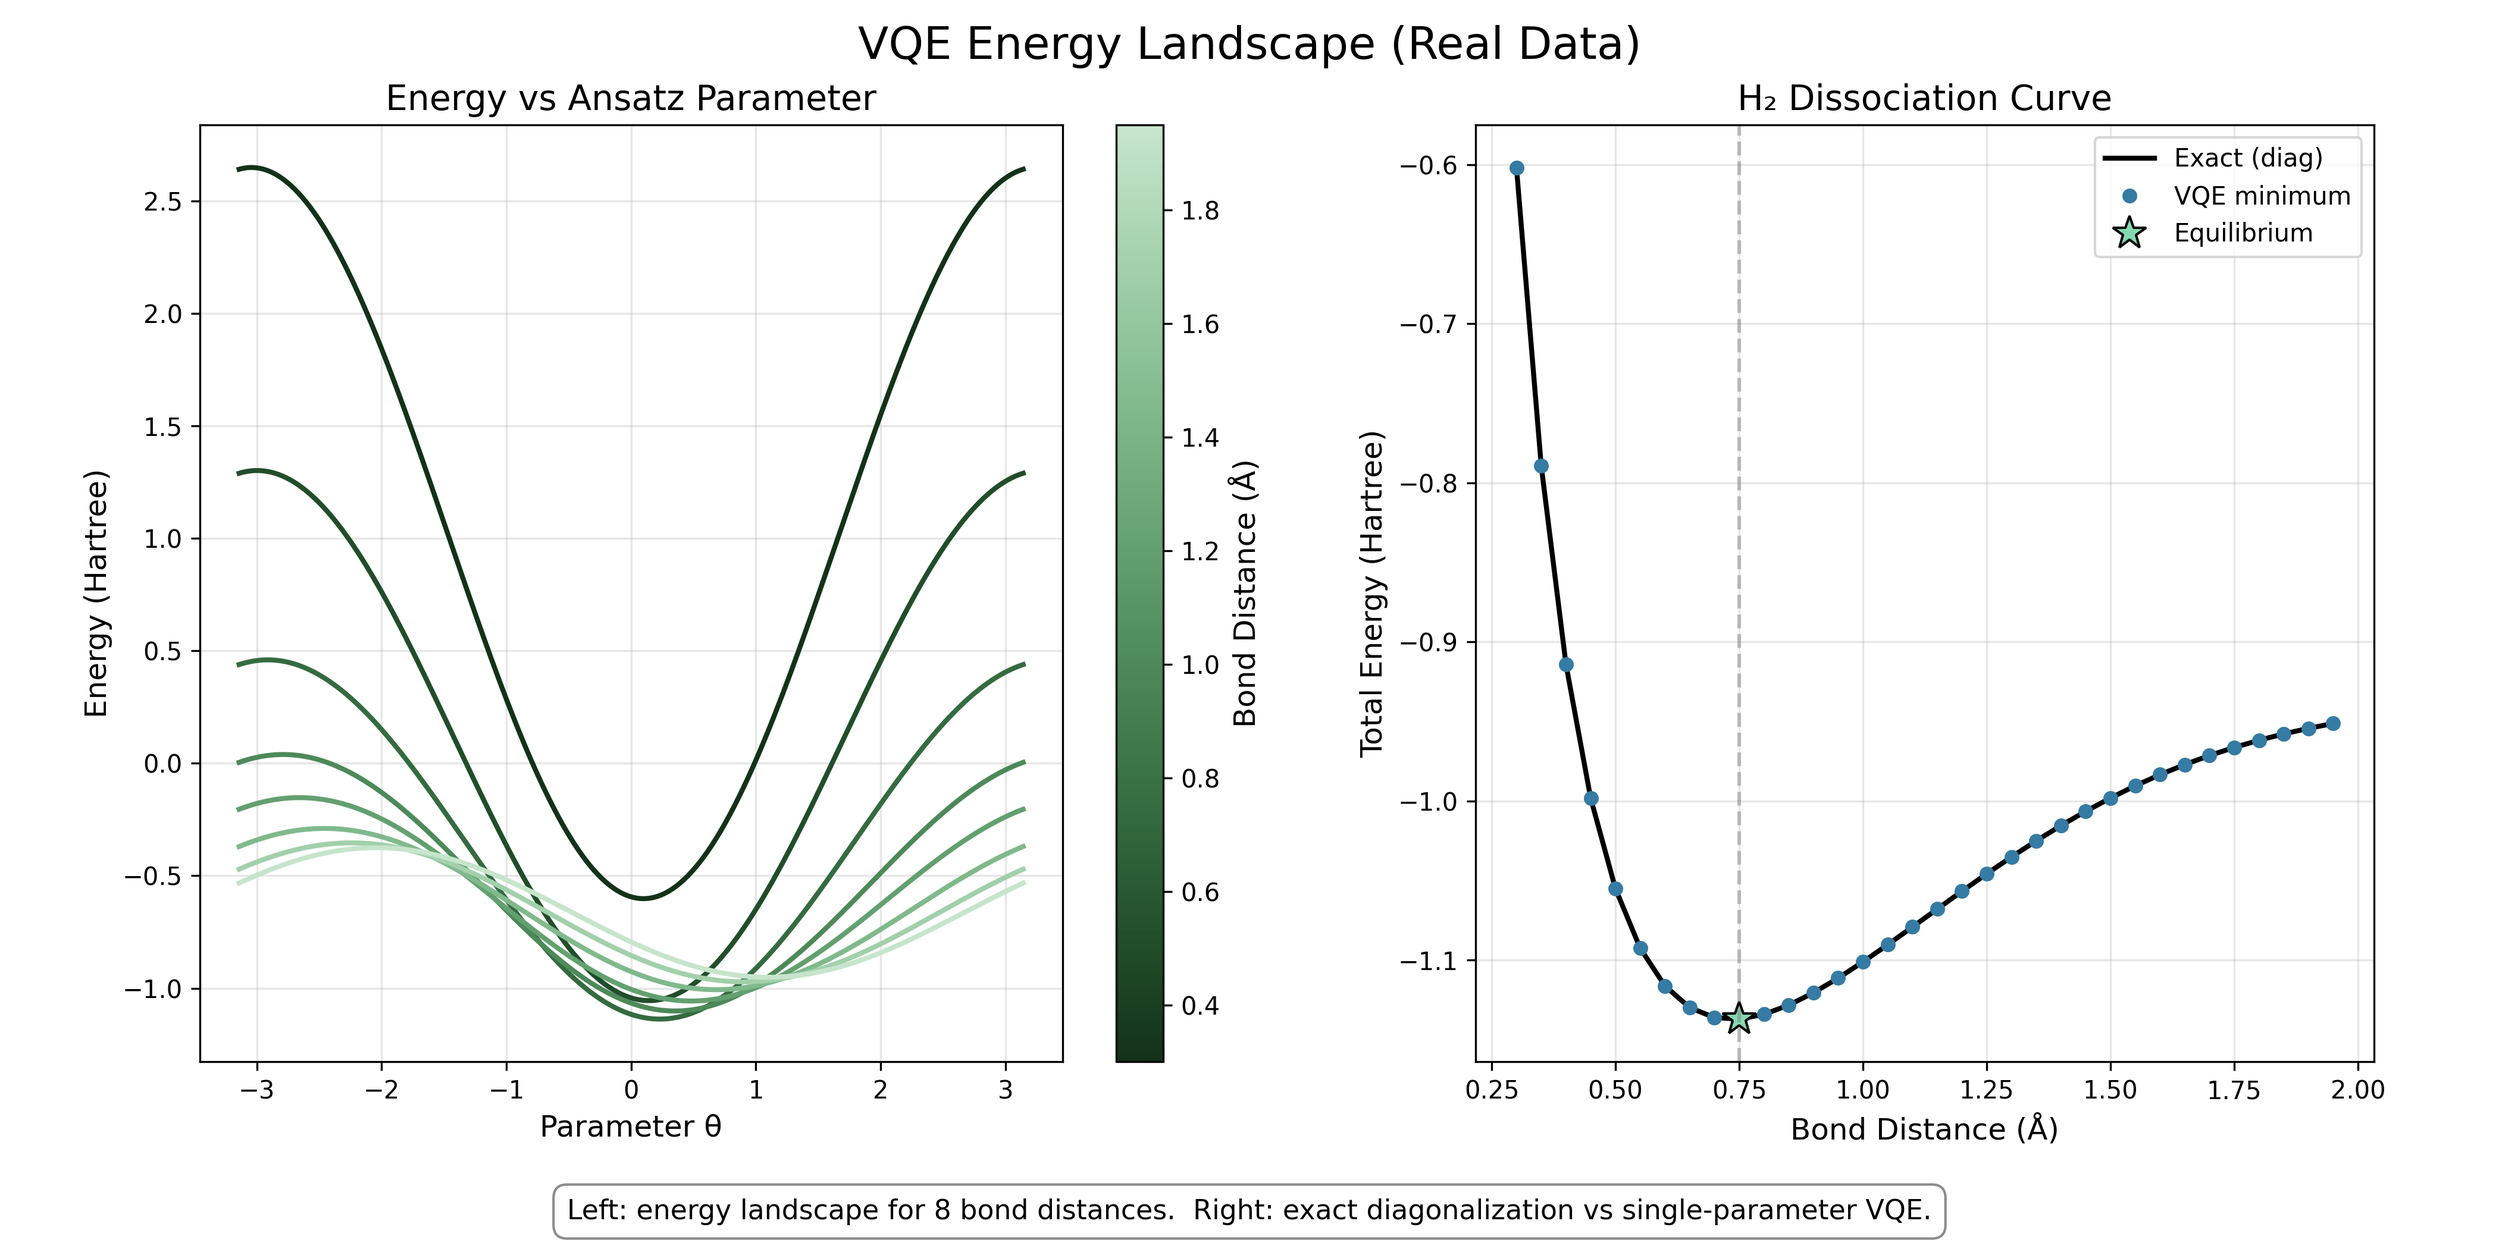
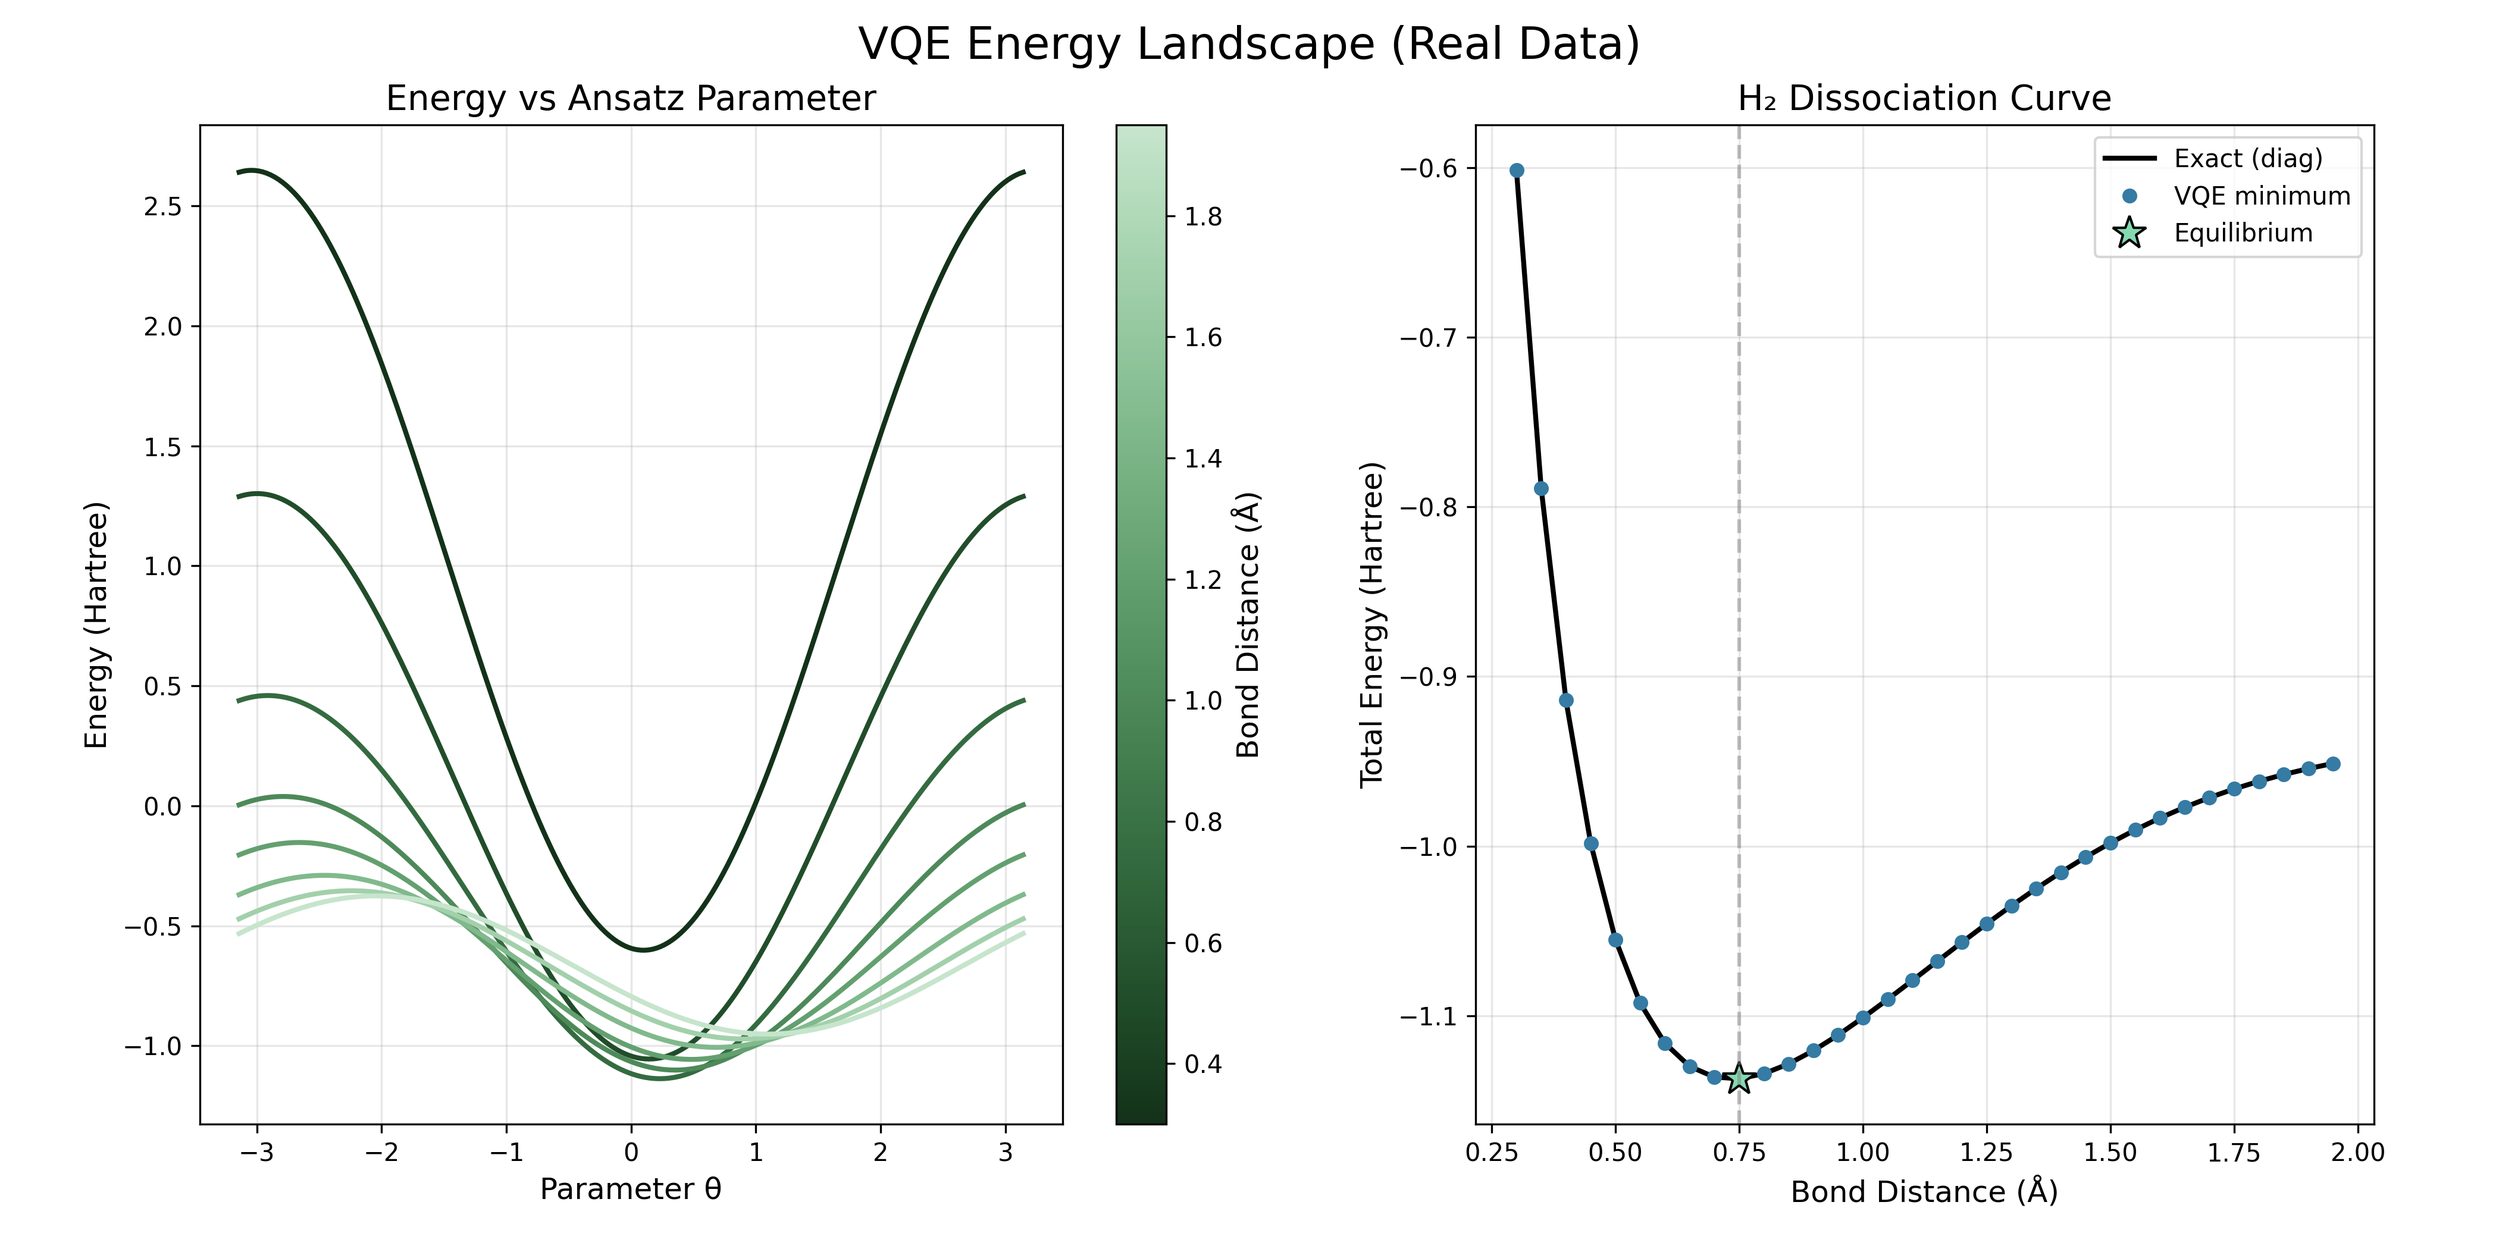
README overhaul: restructure for portfolio, strip figure descriptors, add SE signals

diff --git a/visualization/vqe_energy_curves.py b/visualization/vqe_energy_curves.py
@@ -136,16 +136,7 @@ def create_vqe_energy_curves_visualization(save_path):
     ax2.legend(fontsize=10, loc="upper right")
     ax2.grid(True, alpha=0.3)
 
-    plt.subplots_adjust(left=0.08, right=0.95, top=0.90, bottom=0.15)
-    fig.text(
-        0.5,
-        0.03,
-        "Left: energy landscape for 8 bond distances.  Right: exact diagonalization vs single-parameter VQE.",
-        fontsize=11,
-        ha="center",
-        va="center",
-        bbox=dict(facecolor="white", alpha=0.9, boxstyle="round,pad=0.5", edgecolor="gray"),
-    )
+    plt.subplots_adjust(left=0.08, right=0.95, top=0.90, bottom=0.10)
 
     print(f"Saving VQE energy curves visualization to {save_path}")
     plt.savefig(save_path, dpi=300)

diff --git a/README.md b/README.md
@@ -1,5 +1,5 @@
 # Quantum-Chemistry-Eigensolver
-*69 tests, 4 qubits, 34 bond distances: a ground-up VQE for H₂*
+*A from-scratch variational quantum eigensolver for H₂ dissociation, built on Qiskit 2.0 without Qiskit Nature.*
 
 <p align="center">
   <a href="https://github.com/IsolatedSingularity/Quantum-Chemistry-Eigensolver/actions/workflows/ci.yml"><img src="https://img.shields.io/github/actions/workflow/status/IsolatedSingularity/Quantum-Chemistry-Eigensolver/ci.yml?branch=main&label=CI&logo=github" alt="CI"></a>
@@ -14,138 +14,18 @@
 
 ## Objective
 
-This repository implements a from-scratch **Variational Quantum Eigensolver (VQE)** for the H₂ molecule on Qiskit 2.0. Every component is built without Qiskit Nature: Pauli algebra engine, Jordan-Wigner mapper, Hartree-Fock solver, QWC measurement grouping, and parameter-shift gradients.
-
-The VQE is a hybrid quantum-classical algorithm that approximates ground state energies. For molecular systems, this energy is determined by the electronic Hamiltonian:
-
-$\hat{H} = \sum_{p,q} h_{pq} a_p^\dagger a_q + \frac{1}{2} \sum_{p,q,r,s} h_{pqrs} a_p^\dagger a_q^\dagger a_r a_s$
-
-where $a_p^\dagger$ and $a_q$ are fermionic creation and annihilation operators, while $h_{pq}$ and $h_{pqrs}$ represent one- and two-electron integrals.
+This repository implements a from-scratch **Variational Quantum Eigensolver (VQE)** for the H₂ molecule on Qiskit 2.0. The electronic Hamiltonian is expressed in second quantization using one-electron ($h_{pq}$) and two-electron ($h_{pqrs}$) integrals, then mapped to qubit operators via the Jordan-Wigner transformation.
 
 **Goal:** Compute the H₂ dissociation curve at 34 bond distances using a from-scratch VQE pipeline, and validate against exact diagonalization.
+
+Design decisions:
+- **No Qiskit Nature dependency.** Every component is built from scratch: Pauli algebra engine, Jordan-Wigner mapper, Hartree-Fock solver, QWC measurement grouping.
+- **Analytic gradients** via the parameter-shift rule instead of finite differences.
+- **Typed Python** with mypy in CI, ruff for linting, and 70 pytest tests across 5 modules.
 
 <p align="center">
   <img src="./visualization/apple.gif?raw=true" alt="apple" width="52" height="50" />
 </p>
-
-## Theoretical Background
-
-Quantum chemistry calculations begin with mapping the molecular Hamiltonian to a qubit representation. The most common approach uses the Jordan-Wigner transformation, which converts fermionic operators to Pauli operators:
-
-$a_j^{\dagger} \rightarrow \tfrac12\bigl(X_j - iY_j\bigr) \prod_{k<j} Z_k, \quad a_j \rightarrow \tfrac12\bigl(X_j + iY_j\bigr) \prod_{k<j} Z_k$
-
-For the H₂ molecule with a minimal basis, we need 4 qubits to represent the system's 4 spin orbitals. After mapping and applying symmetries, the qubit Hamiltonian can be expressed as a sum of tensor products of Pauli operators.
-
-The VQE algorithm then works by:
-1. Preparing a parameterized quantum state (ansatz) on a quantum computer
-2. Measuring the expectation value of the Hamiltonian
-3. Using a classical optimizer to update the parameters to minimize energy
-4. Repeating until convergence
-
-For H₂, a simple ansatz involves rotations and entangling gates to create superpositions of computational basis states that represent different electronic configurations.
-
-## Code Functionality
-
-### 1. Initialize Molecule and Parameters
-The simulation loads pre-computed spin orbital integrals for H₂ at 34 bond distances. Each file contains one-electron ($h_{pq}$) and two-electron ($h_{pqrs}$) integrals plus nuclear repulsion energy.
-
-```python
-def load_h2_spin_orbital_integrals(data_path):
-    """Load H2 spin orbital integral data from pre-computed files."""
-    distances, molecule_data = [], []
-    for file in sorted(os.listdir(data_path)):
-        if file.startswith('h2_mo_integrals_d_') and file.endswith('.npz'):
-            distance = float(file.split('_d_')[1].split('.npz')[0]) / 1000.0
-            data = np.load(os.path.join(data_path, file))
-            distances.append(distance)
-            molecule_data.append((data['h1'], data['h2'], data['nuclear_repulsion']))
-    return np.array(distances), molecule_data
-```
-
-### 2. Hamiltonian Construction and Mapping
-The Jordan-Wigner transformation converts each fermionic operator $a_p^\dagger$ into Pauli X, Y operators at position $p$ with a Z-string on preceding qubits. One-body and two-body terms are transformed and combined into a single `Operator` representing the qubit Hamiltonian.
-
-```python
-def build_qubit_hamiltonian(one_body, two_body, creation_ops, annihilation_ops):
-    """Build qubit Hamiltonian from fermionic integrals using JW mapping."""
-    h1 = build_one_body_qubit_hamiltonian(one_body, creation_ops, annihilation_ops)
-    h2 = build_two_body_qubit_hamiltonian(two_body, creation_ops, annihilation_ops)
-    return (h1 + h2).combine().apply_threshold().sort()
-```
-
-### 3. VQE Implementation
-A parameterized circuit (ansatz) prepares trial wavefunctions, and a classical optimizer adjusts parameters to minimize energy. For H₂, a particle-number-preserving ansatz starts from the Hartree-Fock state |0101⟩ and applies a CNOT staircase, reducing the double excitation to a single Ry rotation. The resulting state $\cos(\theta/2)|0101\rangle + \sin(\theta/2)|1010\rangle$ always contains exactly 2 electrons.
-
-The cost function groups Pauli terms into qubitwise-commuting (QWC) sets. Analytic gradients are computed via the parameter-shift rule.
-
-```python
-def h2_ansatz_circuit():
-    """Build a particle-number-preserving H2 ansatz with 1 parameter."""
-    varform = QuantumCircuit(4)
-    theta = Parameter('theta')
-    varform.x([1, 3])           # Prepare |0101⟩
-    varform.cx(1, 0)            # CNOT staircase
-    varform.cx(2, 1)
-    varform.cx(3, 2)
-    varform.ry(theta, 3)        # Parametric rotation
-    varform.cx(3, 2)            # Reverse staircase
-    varform.cx(2, 1)
-    varform.cx(1, 0)
-    return varform
-```
-
-### 4. Visualizing H₂ Dissociation
-Animates H₂ bond stretching with the corresponding potential energy curve, from compression through equilibrium (~0.74 Å) to dissociation.
-
-```python
-def animate_h2_dissociation(save_path):
-    """Create animation of H2 molecule separation with energy curve."""
-    distances, e_elec, e_nuc, e_total = load_and_process_data()
-    fig = plt.figure(figsize=(14, 7))
-    # Dual panel: molecule geometry + energy curve
-    anim = animation.FuncAnimation(fig, animate, frames=len(distances)*2-2)
-    anim.save(save_path, writer='pillow', fps=10)
-```
-
-### 5. Molecular Orbital Visualization
-Visualizes how atomic 1s orbitals combine into bonding and antibonding molecular orbitals for H₂.
-
-```python
-def create_molecular_orbital_visualization(save_path):
-    """Create static visualization of H2 molecular orbitals."""
-    h1_1s = h1s(X, Y, h1_pos)  # Atomic orbital on H1
-    h2_1s = h1s(X, Y, h2_pos)  # Atomic orbital on H2
-    bonding_mo = h1_1s + h2_1s      # Constructive interference
-    antibonding_mo = h1_1s - h2_1s  # Destructive interference
-```
-
-### 6. VQE Energy Curves Visualization
-Computes the VQE energy landscape from the full Jordan-Wigner Hamiltonian across 34 bond distances, validated against exact diagonalization.
-
-```python
-def create_vqe_energy_curves_visualization(save_path):
-    """Build VQE energy curves from real Hamiltonian data."""
-    distances, molecule_data = load_h2_spin_orbital_integrals(data_path)
-    ansatz = h2_ansatz_circuit()
-    # Left: energy vs theta for 8 bond distances
-    # Right: exact dissociation vs VQE minimum
-```
-
-## Results
-
-Ground state energy at equilibrium: **-1.137 Ha** (within $10^{-6}$ Ha of exact diagonalization). 70 tests, 87% coverage on core modules.
-
-1. **H₂ Molecular Orbitals**:
-
-![H2 Molecular Orbitals](https://github.com/IsolatedSingularity/quantum-chemistry-eigensolver/blob/main/visualization/h2_molecular_orbitals.png?raw=true)
-
-2. **H₂ Dissociation Curve**:
-
-![H2 Dissociation Animation](https://github.com/IsolatedSingularity/quantum-chemistry-eigensolver/blob/main/visualization/h2_dissociation.gif?raw=true)
-
-3. **VQE Energy Optimization Curves**:
-
-![VQE Energy Optimization Curves](https://github.com/IsolatedSingularity/quantum-chemistry-eigensolver/blob/main/visualization/vqe_energy_curves.png?raw=true)
 
 ## Installation
 
@@ -174,11 +54,83 @@ qce-dissociation --shots 10000 -o dissociation.png
 qce-visualize --which all
 ```
 
-## Caveats
+To add a new molecule, generate spin-orbital integrals with PySCF (see `usage/`) and pass the data directory to `qce-dissociation --data-path`.
 
-- **Ansatz Limitations**: The simple circuits used in this implementation may not capture all the relevant physics for larger molecules. More sophisticated ansatz designs are needed for scaling beyond H₂.
+## Project Structure
 
-- **Classical Simulation Constraints**: While this implementation simulates the quantum algorithm classically, actual quantum devices would face issues like noise, decoherence, and measurement errors.
+| Directory | Purpose |
+|---|---|
+| `quantum_chemistry/` | Core library: Pauli algebra, Jordan-Wigner mapping, estimation, VQE |
+| `quantum_chemistry/molecule/` | Molecular integrals, Hartree-Fock solver (RHF + UHF), linear algebra |
+| `tests/` | 70 pytest tests (unit, integration, end-to-end VQE) |
+| `examples/` | Step-by-step tutorials for mapping and estimation |
+| `visualization/` | Matplotlib visualizations and animations |
+| `h2_data/` | Pre-computed H₂ spin-orbital integrals (34 bond distances) |
+
+## Theoretical Background
+
+The molecular Hamiltonian is mapped to qubit operators via the Jordan-Wigner transformation:
+
+$a_j^{\dagger} \rightarrow \tfrac12\bigl(X_j - iY_j\bigr) \prod_{k<j} Z_k, \quad a_j \rightarrow \tfrac12\bigl(X_j + iY_j\bigr) \prod_{k<j} Z_k$
+
+For H₂ in a minimal basis, 4 qubits represent 4 spin orbitals. The VQE loop prepares a parameterized ansatz, measures the Hamiltonian expectation value, and uses a classical optimizer to minimize energy until convergence.
+
+## Code Functionality
+
+### 1. Molecule and Integrals
+Pre-computed spin orbital integrals for H₂ at 34 bond distances are loaded from `.npz` files. Each contains one-electron ($h_{pq}$) and two-electron ($h_{pqrs}$) integrals plus nuclear repulsion energy.
+
+```python
+def load_h2_spin_orbital_integral(data_path, filename):
+    """Load a single H2 integral file (sequential npy streams)."""
+    file = os.path.join(data_path, filename)
+    with open(file, "rb") as f:
+        distance = np.load(f, allow_pickle=False)
+        one_body = np.load(f, allow_pickle=False)
+        two_body = np.load(f, allow_pickle=False)
+        nuc_eneg = np.load(f, allow_pickle=False)
+    return distance, one_body, two_body, nuc_eneg
+```
+
+### 2. Hamiltonian Construction
+The Jordan-Wigner transformation converts each fermionic operator $a_p^\dagger$ into Pauli X, Y operators at position $p$ with a Z-string on preceding qubits. One-body and two-body terms are transformed and combined into a single `Operator` representing the qubit Hamiltonian.
+
+```python
+def build_qubit_hamiltonian(one_body, two_body, creation_ops, annihilation_ops):
+    """Build qubit Hamiltonian from fermionic integrals using JW mapping."""
+    h1 = build_one_body_qubit_hamiltonian(one_body, creation_ops, annihilation_ops)
+    h2 = build_two_body_qubit_hamiltonian(two_body, creation_ops, annihilation_ops)
+    return (h1 + h2).combine().apply_threshold().sort()
+```
+
+### 3. VQE Optimization
+A particle-number-preserving ansatz starts from the Hartree-Fock state |0101⟩ and applies a CNOT staircase, reducing the double excitation to a single Ry rotation. The resulting state $\cos(\theta/2)|0101\rangle + \sin(\theta/2)|1010\rangle$ always contains exactly 2 electrons. Pauli terms are grouped into qubitwise-commuting (QWC) sets to reduce measurement circuits.
+
+```python
+def h2_ansatz_circuit():
+    """Build a particle-number-preserving H2 ansatz with 1 parameter."""
+    varform = QuantumCircuit(4)
+    theta = Parameter('theta')
+    varform.x([1, 3])           # Prepare |0101⟩
+    varform.cx(1, 0)            # CNOT staircase
+    varform.cx(2, 1)
+    varform.cx(3, 2)
+    varform.ry(theta, 3)        # Parametric rotation
+    varform.cx(3, 2)            # Reverse staircase
+    varform.cx(2, 1)
+    varform.cx(1, 0)
+    return varform
+```
+
+## Results
+
+Ground state energy at equilibrium: **-1.137 Ha** (within $10^{-6}$ Ha of exact diagonalization). 70 pytest tests across 5 modules, 87% line coverage, type-checked with mypy.
+
+![H2 Molecular Orbitals](https://github.com/IsolatedSingularity/quantum-chemistry-eigensolver/blob/main/visualization/h2_molecular_orbitals.png?raw=true)
+
+![H2 Dissociation Animation](https://github.com/IsolatedSingularity/quantum-chemistry-eigensolver/blob/main/visualization/h2_dissociation.gif?raw=true)
+
+![VQE Energy Optimization Curves](https://github.com/IsolatedSingularity/quantum-chemistry-eigensolver/blob/main/visualization/vqe_energy_curves.png?raw=true)
 
 ## Next Steps
 
@@ -188,22 +140,8 @@ qce-visualize --which all
 - [ ] Implement quantum subspace expansion techniques to improve accuracy of excited state calculations.
 - [ ] Add support for calculating molecular properties beyond the ground state energy (dipole moments, forces, etc.).
 
-> [!TIP]
-> Step-by-step tutorial scripts live in `examples/`; run `tutorial_1_mapping.py` and `tutorial_2_estimation.py` to walk through the full pipeline.
-
 > [!NOTE]
-> This project targets H₂ as a proof of concept; extending to larger systems would require a more expressive ansatz and additional orbital handling.
-
-## Project Structure
-
-| Directory | Purpose |
-|---|---|
-| `quantum_chemistry/` | Core library: Pauli algebra, Jordan-Wigner mapping, estimation, VQE |
-| `quantum_chemistry/molecule/` | Molecular integrals, Hartree-Fock solver, linear algebra |
-| `tests/` | 70 pytest tests (unit, integration, end-to-end VQE) |
-| `examples/` | Step-by-step tutorials for mapping and estimation |
-| `visualization/` | Matplotlib visualizations and animations |
-| `h2_data/` | Pre-computed H₂ spin-orbital integrals (34 bond distances) |
+> This project targets H₂ as a proof of concept. The single-parameter ansatz may not capture all relevant physics for larger molecules, and classical simulation does not account for hardware noise or decoherence.
 
 ## Acknowledgments
 
